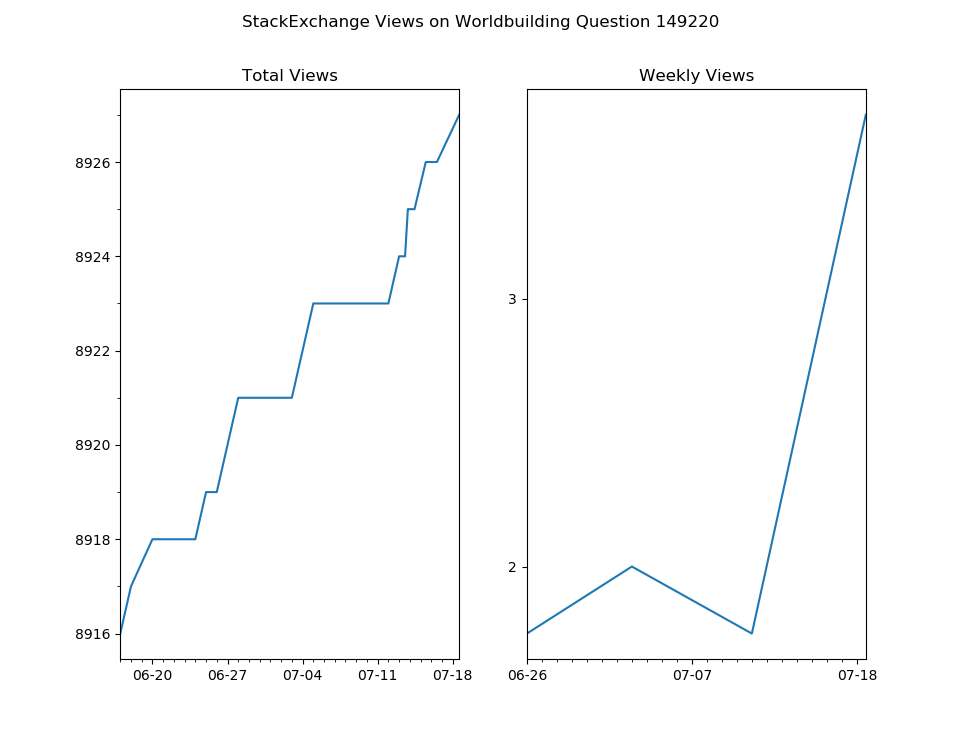
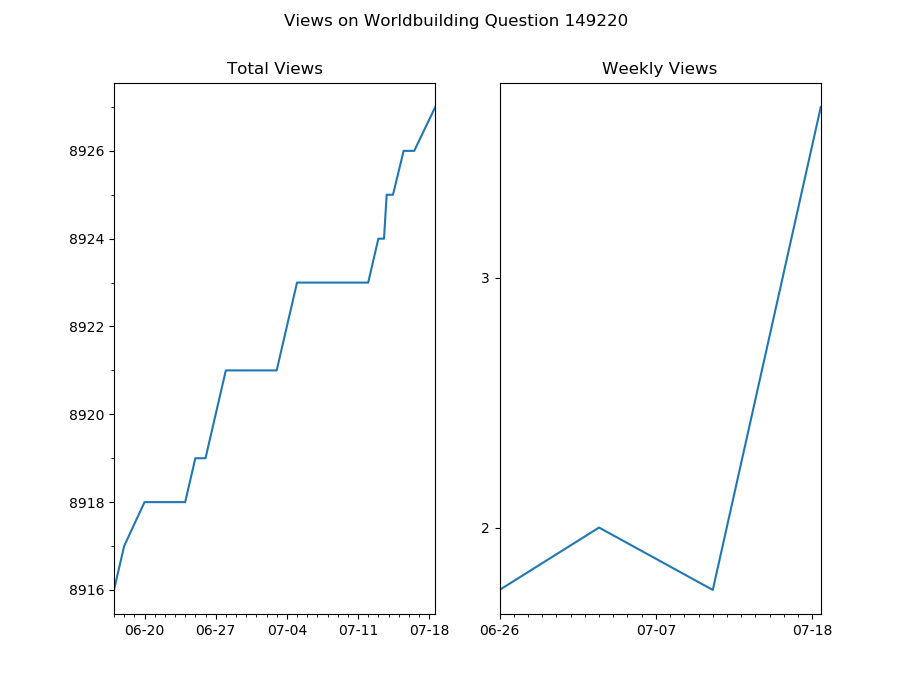
fix tics

diff --git a/se.plot.py b/se.plot.py
@@ -10,7 +10,6 @@ import matplotlib
 import matplotlib.pyplot as plt
 import matplotlib.dates as mdates
 
-
 def get_views(filename, site, question):
     dates = []
     views = []
@@ -65,8 +64,9 @@ def bin_weekly(dates, views_list, days=7):
 def format_axis(ax, dates, views):
     strip = lambda date: datetime.datetime(date.year, date.month, date.day)
 
-    if dates[-1] - dates[0] >= datetime.timedelta(days=7):
-        tics = get_tics(0, (dates[-1] - dates[0]).days)
+    length = dates[-1] - dates[0]
+    if length >= datetime.timedelta(days=7):
+        tics = get_tics(0, length.days)
         if len(tics) >= 4 and (tics[1] - tics[0]) / (tics[2] - tics[1]) < 0.5:
             tics = tics[1:]
         tics = [strip(dates[0]) + datetime.timedelta(days=days) for days in tics]
@@ -75,7 +75,8 @@ def format_axis(ax, dates, views):
 
     ax.set_xlim([min(tics[0], dates[0]), max(tics[-1], dates[-1])])
     ax.xaxis.set_major_formatter(mdates.DateFormatter('%m-%d'))
-    ax.xaxis.set_minor_locator(mdates.DayLocator(interval=1))
+    if length < datetime.timedelta(days=100):
+        ax.xaxis.set_minor_locator(mdates.DayLocator(interval=1))
     ax.set_xticks(tics)
 
 
@@ -119,6 +120,7 @@ def get_tics(start, end):
     return candidates[-1][-1]
 
 
+
 def main():
     if len(sys.argv[1:]) >= 2:
         filename = sys.argv[1]
@@ -154,7 +156,7 @@ def main():
     ax1.set_title('Total Views')
     ax1.plot(dates, views)
 
-    fig.suptitle('StackExchange Views on ' + ' '.join((site.title(), "Question", question)))
+    fig.suptitle('Views on ' + ' '.join((site.title(), "Question", question)))
     plt.show()
 
 

diff --git a/se.views.py b/se.views.py
@@ -7,6 +7,8 @@ import time
 import json
 from stackapi import StackAPI
 
+
+
 def query_user(site, user):
     "Get all questions and answers for user:"
     api = StackAPI(site)
@@ -68,6 +70,7 @@ def main():
     with open('se.views.out', 'a') as f:
         json.dump([int(time.time()), out], f)
         f.write('\n')
+
 
 if __name__ == "__main__":
     main()

diff --git a/Readme.MD b/Readme.MD
@@ -60,6 +60,6 @@ Raw view data is printed to the terminal if you want to make your own fun graphs
 
 #### FAQ:
 
-**How do weekly views have a fractional number of views? **
+  **How do weekly views have a fractional number of views?**
 
 If the script didn't run at the same time every day, the numbers are being adjusted. For example if the time between the first to last data point in a week is actually 7.3 days, then the number of views is being divided down by 7.3/7  to normalize the numbers.
